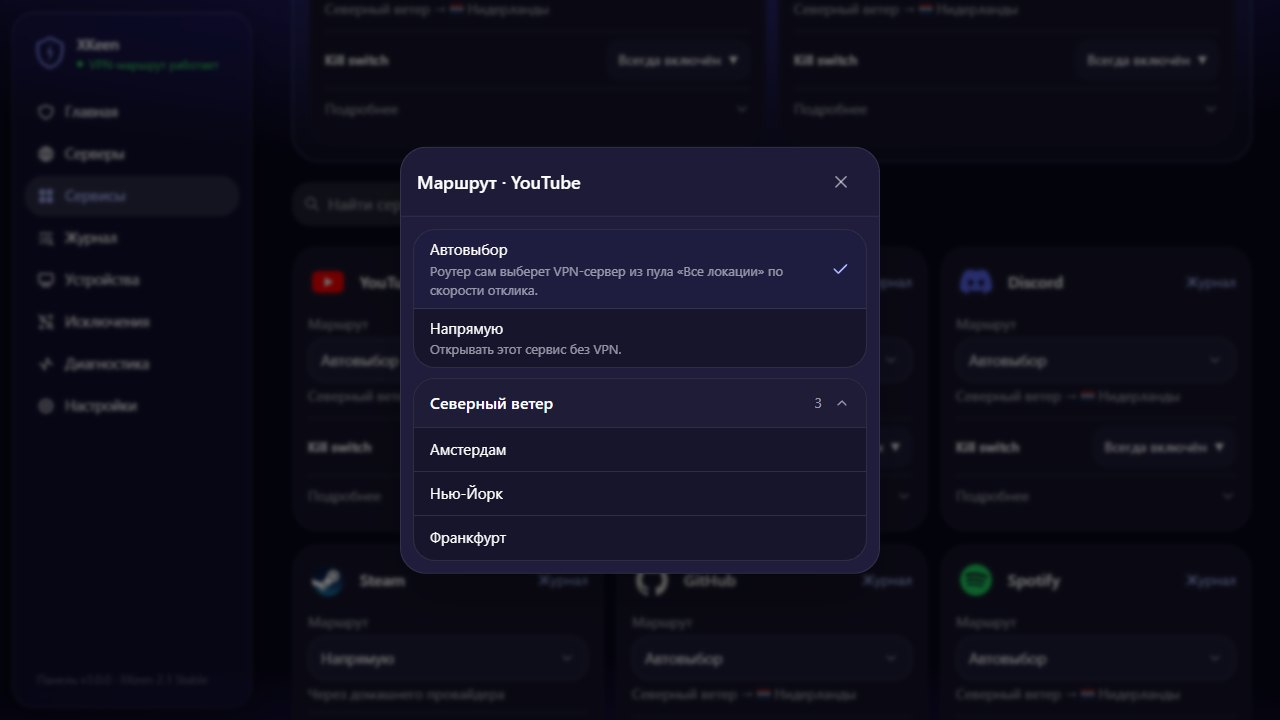
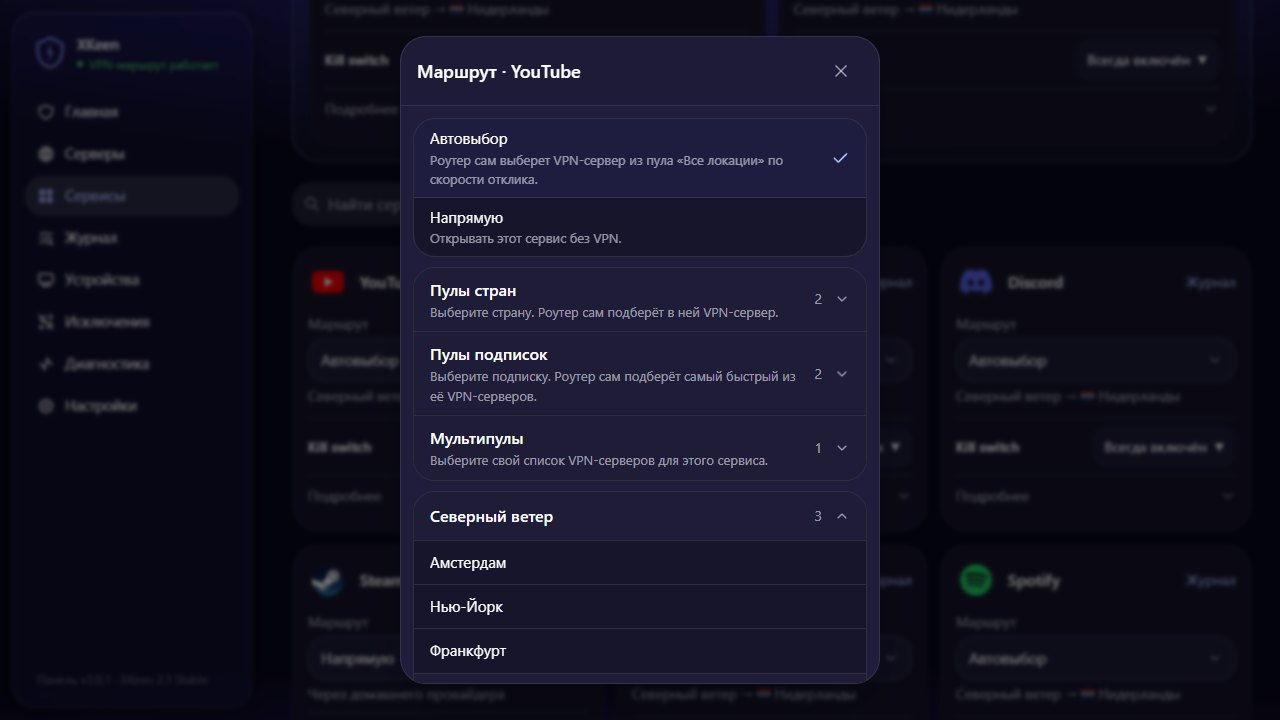
Prepare the v3.0.1 release
Point the README, the installation guide, the install skill, the
release workflow default and the demo at v3.0.1, add the release notes
and retake the screenshots of the pages that changed.

Changed region(s): [[0.3125, 0.0306, 0.6875, 0.9472]]

diff --git a/frontend/src/pages/welcomePage.tsx b/frontend/src/pages/welcomePage.tsx
@@ -244,7 +244,7 @@ function XKeenStep({ onRetry }: { onRetry: () => void }) {
                 footer='Потребуются доступ к роутеру в домашней сети и готовая подписка или ссылка сервера. Не отключайте VPN компьютера, пока агент не проверит альтернативный доступ.'
             >
                 <a
-                    href='https://github.com/Sgadmer/xkeen-panel/blob/v3.0.0/docs/installation.md'
+                    href='https://github.com/Sgadmer/xkeen-panel/blob/v3.0.1/docs/installation.md'
                     target='_blank'
                     rel='noopener noreferrer'
                     className='flex min-h-12 items-center py-3 text-[15px] text-tint'

diff --git a/internal/demo/demo.go b/internal/demo/demo.go
@@ -24,7 +24,7 @@ import (
 type object = map[string]interface{}
 
 func Handler(frontend fs.FS) http.Handler {
-	status := object{"connected": true, "internet": true, "proxy_checked": true, "xray_running": true, "restarting": false, "current_server": "Нидерланды · основной", "protocol": "vless", "latency_ms": 48, "uptime": "2 д 4 ч", "last_check": time.Now().UTC().Format(time.RFC3339), "watchdog_active": true, "panel_version": "v3.0.0", "core": "xray", "mode": "TProxy", "xkeen_version": "2.1 Stable", "generation": 2}
+	status := object{"connected": true, "internet": true, "proxy_checked": true, "xray_running": true, "restarting": false, "current_server": "Нидерланды · основной", "protocol": "vless", "latency_ms": 48, "uptime": "2 д 4 ч", "last_check": time.Now().UTC().Format(time.RFC3339), "watchdog_active": true, "panel_version": "v3.0.1", "core": "xray", "mode": "TProxy", "xkeen_version": "2.1 Stable", "generation": 2}
 	mihomo := os.Getenv(mihomoCoreEnv) == "mihomo"
 	if mihomo {
 		status = demoMihomoStatus(status)
@@ -87,7 +87,7 @@ func Handler(frontend fs.FS) http.Handler {
 			case "/api/account":
 				data = object{"username": "admin", "recovery_codes_left": 8, "passkeys": 0, "remember": true}
 			case "/api/update":
-				data = object{"locked": false, "repository": "Sgadmer/xkeen-panel", "channel": "stable", "current": "v3.0.0", "latest": object{"tag": "v3.0.0", "prerelease": false, "url": "https://github.com/Sgadmer/xkeen-panel/releases/tag/v3.0.0"}, "supported": true, "available": false, "auto": false, "auto_hour": 4, "last_check": time.Now().UTC().Format(time.RFC3339)}
+				data = object{"locked": false, "repository": "Sgadmer/xkeen-panel", "channel": "stable", "current": "v3.0.1", "latest": object{"tag": "v3.0.1", "prerelease": false, "url": "https://github.com/Sgadmer/xkeen-panel/releases/tag/v3.0.1"}, "supported": true, "available": false, "auto": false, "auto_hour": 4, "last_check": time.Now().UTC().Format(time.RFC3339)}
 			case "/api/setup/state":
 				data = object{"xkeen_installed": true, "xkeen_version": "2.1 Stable", "core": "xray", "core_running": true, "autostart": true, "subscription": true, "servers": 3, "configured": true, "pool_nodes": 2, "router_api": true, "policy_found": true, "devices_in_vpn": 2, "new_devices_vpn": false, "watchdog": true, "complete": true, "routing_mode_configured": true}
 			case "/api/logs":

diff --git a/README.md b/README.md
@@ -2,7 +2,7 @@
 
 Панель для домашнего роутера Keenetic или Netcraze. Здесь можно выбрать, через какую страну откроется YouTube, закрепить сервер за Claude, оставить Steam напрямую и посмотреть, каким маршрутом ушло соединение с телефона. Управлять панелью можно из браузера на компьютере или телефоне.
 
-[Скачать панель и навык установки · v3.0.0](https://github.com/Sgadmer/xkeen-panel/releases/tag/v3.0.0) · [Установка с нуля](docs/installation.md) · [Перенос действующего VPN](docs/migration.md)
+[Скачать панель и навык установки · v3.0.1](https://github.com/Sgadmer/xkeen-panel/releases/tag/v3.0.1) · [Установка с нуля](docs/installation.md) · [Перенос действующего VPN](docs/migration.md)
 
 ![Главная: сервер в Стокгольме, как он выбран, сводка защиты и события панели](docs/screenshots/overview.jpg)
 
@@ -25,16 +25,16 @@
 | Получать уведомления | [Уведомления](#уведомления) |
 | Обновить панель или вернуть предыдущую версию | [Обновление и восстановление](#обновление-панели-и-восстановление) |
 
-Руководство описывает выпуск **v3.0.0**. По сравнению с beta.6 журнал соединений стал отдельной вкладкой, настройки сгруппированы заново, появились свои сервисы, раздел «Вход и безопасность», перенос настроек и подтверждения перед действиями, которые ослабляют защиту. [Что нового](docs/releases/v3.0.0.md). Снимки экранов сняты из демонстрационного режима этой версии; экраны мастера и уведомлений оставлены от beta.4. Во всех публичных примерах используются вымышленные подписки, устройства и адреса. Набор кнопок зависит от ядра — программы, через которую роутер пропускает соединения. Название своего ядра видно в **Настройки → Роутер и XKeen**.
+Руководство описывает выпуск **v3.0.1**. По сравнению с beta.6 журнал соединений стал отдельной вкладкой, настройки сгруппированы заново, появились свои сервисы, раздел «Вход и безопасность», перенос настроек и подтверждения перед действиями, которые ослабляют защиту. [Что нового](docs/releases/v3.0.1.md). Снимки экранов сняты из демонстрационного режима этой версии; экраны мастера и уведомлений оставлены от beta.4. Во всех публичных примерах используются вымышленные подписки, устройства и адреса. Набор кнопок зависит от ядра — программы, через которую роутер пропускает соединения. Название своего ядра видно в **Настройки → Роутер и XKeen**.
 
 ## Установка и первый вход
 
-1. На компьютере в домашней сети скачайте и распакуйте архив навыка для **v3.0.0**. Внутри будет папка `xkeen-router-install` с файлом `SKILL.md` и подпапкой `references`. Сохраните их вместе. Аккаунт GitHub для скачивания не нужен. [Скачать xkeen-router-install.zip](https://github.com/Sgadmer/xkeen-panel/releases/download/v3.0.0/xkeen-router-install.zip)
+1. На компьютере в домашней сети скачайте и распакуйте архив навыка для **v3.0.1**. Внутри будет папка `xkeen-router-install` с файлом `SKILL.md` и подпапкой `references`. Сохраните их вместе. Аккаунт GitHub для скачивания не нужен. [Скачать xkeen-router-install.zip](https://github.com/Sgadmer/xkeen-panel/releases/download/v3.0.1/xkeen-router-install.zip)
 2. Откройте распакованную папку в локальном агенте с доступом к браузеру и терминалу. Напишите **«Прочитай SKILL.md и помоги установить XKeen и панель на мой роутер. Хочу выбирать VPN отдельно для каждого сервиса»**. Подготовьте ссылку на подписку или готовую ссылку подключения к своему серверу. Пароли и одноразовые коды вводите локально.
 3. Агент проверит модель, прошивку, свободное место, Entware и предыдущие установки. Если VPN на роутере уже работает, вы увидите, какие настройки удастся перенести и как вернуть прежнюю панель. Перед переключением агент сохранит резервную копию. Две работающие панели не должны одновременно менять правила одного роутера. Если провайдер привязал подписку к устройству по HWID, при переносе нужно сохранить его прежний идентификатор. [Перенос настроек и восстановление](docs/migration.md)
 4. После установки агент покажет адрес именно вашей панели и проверит на подключённом устройстве доступ через VPN и прямой выход. Сохраните адрес в закладки. Чтобы открыть панель с телефона, подключитесь к тому же Wi-Fi и отсканируйте QR-код в **Настройки → Вход и безопасность → Адрес панели и QR-код**.
 
-**Для самостоятельной установки** скачайте исходники и файл контрольных сумм из одного выпуска. В инструкции описаны проверка роутера, резервная копия, подготовка комплекта на компьютере и запуск установщика на роутере. Готовые сборки выпускаются для ARM64 и MIPS little-endian. Совместимость зависит также от модели и прошивки. [Файлы релиза v3.0.0](https://github.com/Sgadmer/xkeen-panel/releases/tag/v3.0.0) · [Пошаговая установка](docs/installation.md)
+**Для самостоятельной установки** скачайте исходники и файл контрольных сумм из одного выпуска. В инструкции описаны проверка роутера, резервная копия, подготовка комплекта на компьютере и запуск установщика на роутере. Готовые сборки выпускаются для ARM64 и MIPS little-endian. Совместимость зависит также от модели и прошивки. [Файлы релиза v3.0.1](https://github.com/Sgadmer/xkeen-panel/releases/tag/v3.0.1) · [Пошаговая установка](docs/installation.md)
 
 Чистая установка по этой инструкции готовит XKeen 2.1 с Xray. Для карточек сервисов и журнала соединений нужен работающий Mihomo. Если он уже настроен, агент проверит возможность установить только панель. Для режима `--panel-only` установщик также требует установленные XKeen и Xray.
 

diff --git a/docs/releases/v3.0.1.md b/docs/releases/v3.0.1.md
@@ -1,0 +1,28 @@
+# v3.0.1
+
+Исправления автовыбора и новый вид пулов — пулы подписок.
+
+## Автовыбор
+
+- **Задержка в списке пула — та, по которой выбирает роутер.** Раньше карточки показывали замер панели, а роутер выбирал сервер по собственному. Из-за этого отметка могла стоять не на самом быстром сервере. Теперь в списке пула и у тех же серверов во вкладке «Все серверы» показан замер роутера. У серверов вне пула остаётся замер панели — об этом сказано под списком.
+- **Пулы подписок.** В «Пул автовыбора» можно выбрать одну подписку: роутер берёт серверы только из неё. Свои пулы стоят в списке выше стран.
+- **Лимит.** У пула подписки и своего пула берутся все его серверы. Лимит пула «Все локации» сохраняется и возвращается вместе с ним.
+
+## Сервисы
+
+- **Пул подписки как маршрут сервиса.** Сервис можно направить на самый быстрый сервер выбранной подписки. Пустой пул выбрать нельзя.
+- **Выбор маршрута в трёх блоках.** «Автовыбор» и «Напрямую»; пулы стран, подписок и мультипулы; серверы по подпискам.
+- **Удаление подписки.** Если пул подписки выбран основным маршрутом или маршрутом сервиса, панель не удалит подписку и назовёт, где он выбран. Сначала выберите для них другой маршрут.
+
+## Мультипулы
+
+- **Список серверов по подписке.** В редакторе пула можно показать серверы одной подписки или только выбранных в условиях. Серверы, которые уже входят в пул по условиям, отмечены.
+
+## Что важно знать
+
+- Обновление сохраняет ваши маршруты, пулы, исключения и настройки защиты.
+- На рабочем роутере проверены список автовыбора и замеры. Переключение автовыбора и сервиса на пул подписки, отказ в удалении подписки и фильтр в редакторе пула проверены автоматическими тестами и на демонстрационных данных.
+
+Обновление доступно в **Настройки → О панели и обновление**. [Руководство](https://github.com/Sgadmer/xkeen-panel/blob/v3.0.1/README.md) · [Навык установки для локального агента](https://github.com/Sgadmer/xkeen-panel/releases/download/v3.0.1/xkeen-router-install.zip) · [Установка](https://github.com/Sgadmer/xkeen-panel/blob/v3.0.1/docs/installation.md)
+
+Защита действует для трафика, поступающего в VPN-ядро. Общие и неизвестные адреса не позволяют гарантированно определить приложение; журнал хранит метаданные, а не содержимое HTTPS. Подробности: [правила сервисов](https://github.com/Sgadmer/xkeen-panel/blob/v3.0.1/docs/service-rules.md) и [история соединений](https://github.com/Sgadmer/xkeen-panel/blob/v3.0.1/docs/connection-history.md).

diff --git a/docs/installation.md b/docs/installation.md
@@ -55,14 +55,14 @@ sh installer/router-audit.sh
 
 ## 3. Получение проверенного комплекта
 
-Используйте публичный [репозиторий форка](https://github.com/Sgadmer/xkeen-panel) и конкретный release tag. Текущий выпуск — `v3.0.0`. Не используйте плавающий `main` или исполняемый `curl | sh`.
+Используйте публичный [репозиторий форка](https://github.com/Sgadmer/xkeen-panel) и конкретный release tag. Текущий выпуск — `v3.0.1`. Не используйте плавающий `main` или исполняемый `curl | sh`.
 
 Сначала скачайте release-архив исходников `xkeen-panel-source.zip` и `SHA256SUMS` на компьютер. Проверьте сумму архива до извлечения и выполнения файлов; проверьте архив на traversal и ссылки. Получение публичных файлов не требует токена GitHub. Если источник недоступен, сообщите точный сбой и используйте загрузку на компьютере с последующим SCP; не передавайте секреты случайным зеркалам и не отключайте TLS-проверку.
 
 В подготовленном checkout на компьютере:
 
 ```sh
-python installer/prepare_bundle.py --panel-version v3.0.0 --xkeen-version 2.1 --xray-version v26.3.27 --arch aarch64 --output ./private-work/router-bundle
+python installer/prepare_bundle.py --panel-version v3.0.1 --xkeen-version 2.1 --xray-version v26.3.27 --arch aarch64 --output ./private-work/router-bundle
 ```
 
 Номера здесь показывают зафиксированный комплект первой версии. Перед установкой агент проверяет выбранное сочетание с обнаруженными прошивкой/архитектурой и возможностями подписки. Новая версия, не прошедшая проверки, не становится рекомендуемой только из-за большего номера.

diff --git a/skills/xkeen-router-install/SKILL.md b/skills/xkeen-router-install/SKILL.md
@@ -7,7 +7,7 @@ description: "Install or migrate XKeen with existing VPN connection data on a Ke
 
 Если на работающей панели пользователь просит настроить HTTPS или вход по Face ID, сразу откройте [сценарий для агента](references/panel-https.md). Для этой задачи достаточно локального браузера с доступом к панели. Для установки и миграции VPN используйте разделы ниже.
 
-Единственный доверенный проект: **https://github.com/Sgadmer/xkeen-panel**. Текущий проверяемый релиз этого скилла: `v3.0.0`. Скилл содержит порядок работы; исходники, инструменты установки и инструкции получайте из этого репозитория. GitHub-коннектор не требуется.
+Единственный доверенный проект: **https://github.com/Sgadmer/xkeen-panel**. Текущий проверяемый релиз этого скилла: `v3.0.1`. Скилл содержит порядок работы; исходники, инструменты установки и инструкции получайте из этого репозитория. GitHub-коннектор не требуется.
 
 ## Начните с разговора и проверки среды
 
